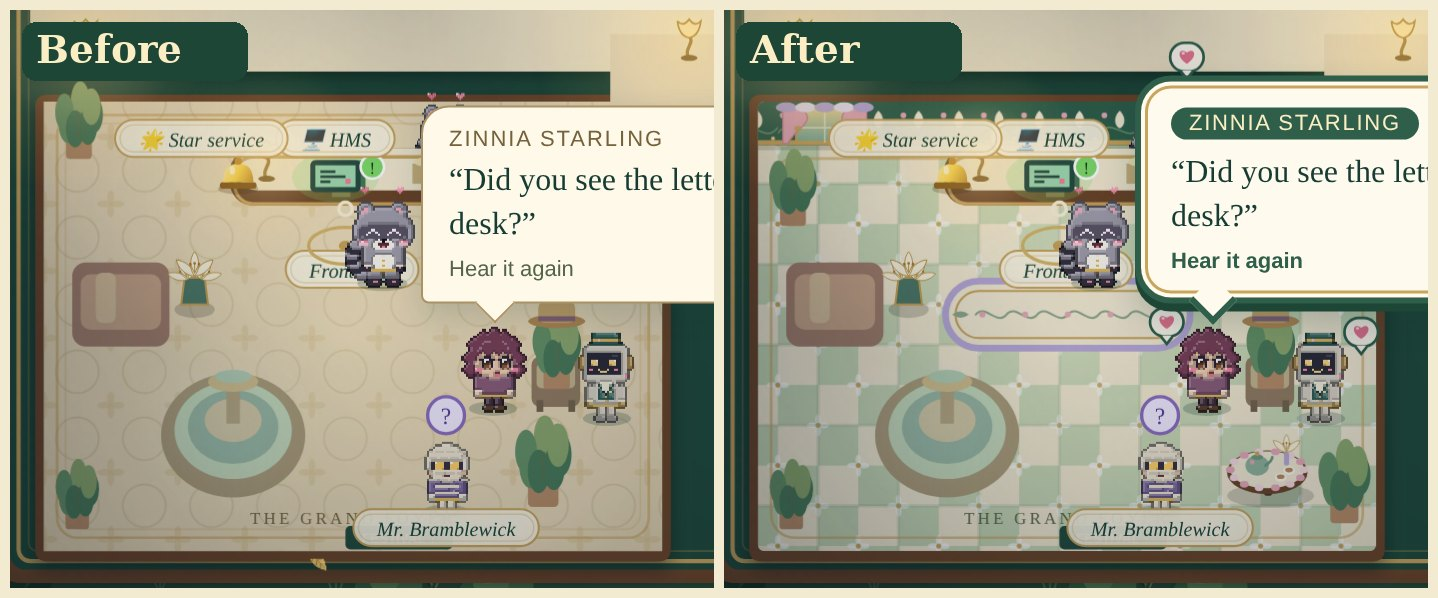
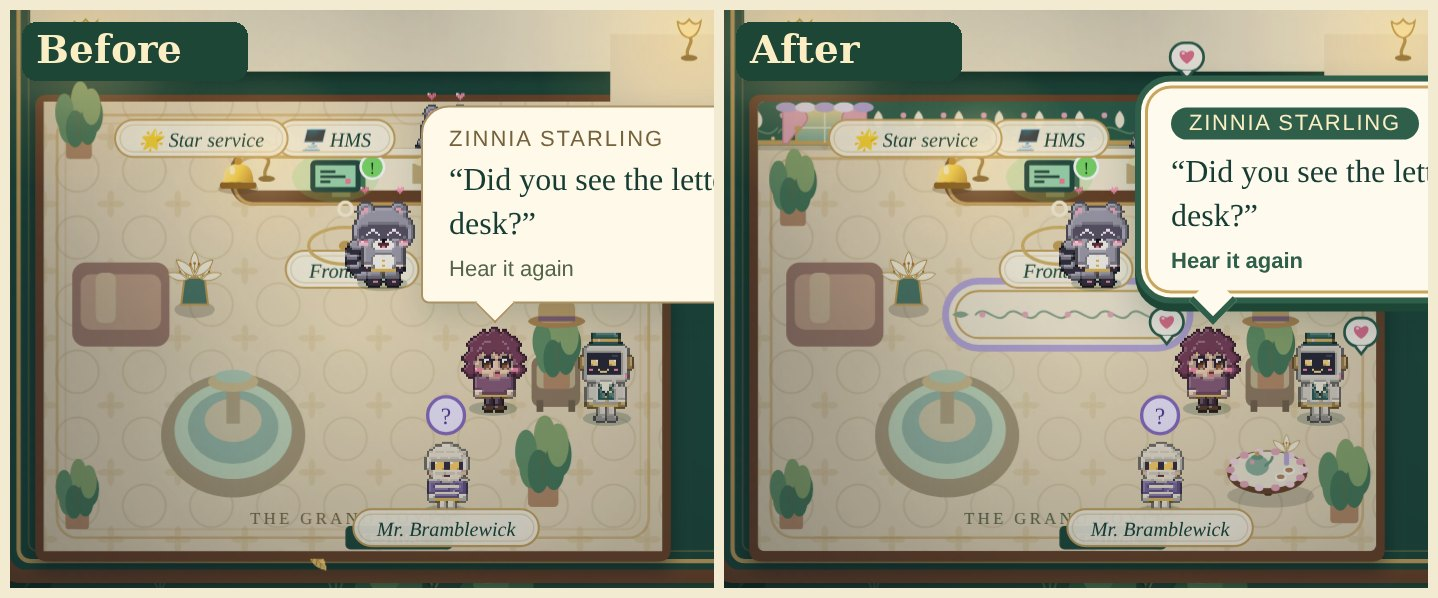
Cozy foyer: keep the original beige floor
The person preferred the beige floor to the checker. Wallpaper band, rug,
tea corner, hearts and chunky dialogue box stay. A minimal character build
was tried and dropped at the person's request.

Claude-Session: https://claude.ai/code/session_01MmNrVRPqKuEYErz5vUcpBR

diff --git a/index.html b/index.html
@@ -1676,16 +1676,11 @@ function roomFloor(c,r,color,label) {
   if(LABELS){c.letterSpacing='2px';text(c,label,r.x+r.w/2,r.y+r.h-16,10,'#7a6a43','Georgia');c.letterSpacing='0px';}
 }
 /* COZY FOYER v1 (test room): the Grand Foyer only. Still Art Nouveau and still manor green; pinks and lavenders are small accents.
-   Borrowed construction ideas: a repeating patterned floor, a patterned wallpaper band with bowed curtains, soft rounded shapes,
+   Borrowed construction ideas: the original beige floor, a patterned wallpaper band with bowed curtains, soft rounded shapes,
    a tea corner, and a little heart bubble when someone is happy. All painted once into the cached map layer except the hearts.
    Add ?cozy=0 to the address to see the old foyer for comparison. */
 const COZY_FOYER=!/[?&]cozy=0\b/.test(location.search);
 const COZY={sage:'#c4d6b3',cream:'#f3ead2',green:'#2f5f4a',greenDk:'#24503e',pink:'#e7a9b8',pinkDk:'#c98597',lav:'#b9a9d8',lavLt:'#e9e2f5'};
-function cozyFloorTile(){return anTile('cozyfloor',48,(g,s)=>{const h=s/2;
-  g.fillStyle=COZY.cream;g.fillRect(0,0,s,s);g.fillStyle=COZY.sage;g.fillRect(0,0,h,h);g.fillRect(h,h,h,h);
-  /* a tiny four-petal lily-bud where the tiles meet, and a gold dot at each centre */
-  for(const [x,y] of [[0,0],[s,0],[0,s],[s,s],[h,h]]){g.fillStyle='#ffffffb0';for(let i=0;i<4;i++){g.beginPath();g.ellipse(x+Math.cos(i*Math.PI/2)*3.4,y+Math.sin(i*Math.PI/2)*3.4,3.2,1.7,i*Math.PI/2,0,Math.PI*2);g.fill();}g.fillStyle='#c9a45c';g.beginPath();g.arc(x,y,1.5,0,Math.PI*2);g.fill();}
-  g.strokeStyle='#8fa98c40';g.lineWidth=1;g.strokeRect(.5,.5,s-1,s-1);});}
 function cozyPaperTile(){return anTile('cozypaper',24,(g,s)=>{
   g.fillStyle=COZY.green;g.fillRect(0,0,s,s);
   g.strokeStyle='#9cc08c88';g.lineWidth=1;g.beginPath();g.moveTo(0,s*.75);g.bezierCurveTo(s*.3,s*.3,s*.7,s*1.05,s,s*.6);g.stroke();
@@ -1694,7 +1689,7 @@ function cozyPaperTile(){return anTile('cozypaper',24,(g,s)=>{
 function cozyFloor(c,r,label){
   rect(c,r.x-5,r.y-4,r.w+10,r.h+10,AN.walnut,6);
   c.save();c.beginPath();c.roundRect(r.x,r.y,r.w,r.h,4);c.clip();
-  c.fillStyle=cozyFloorTile();c.fillRect(r.x,r.y,r.w,r.h);
+  rect(c,r.x,r.y,r.w,r.h,'#e8d8b6');c.fillStyle=floorTile();c.fillRect(r.x,r.y,r.w,r.h); /* the person kept the original beige floor */
   const cx=r.x+r.w/2,cy=r.y+r.h*.45,warm=c.createRadialGradient(cx,cy,10,cx,cy,Math.max(r.w,r.h)*.75);warm.addColorStop(0,'rgba(255,244,214,.28)');warm.addColorStop(.6,'rgba(255,240,200,0)');warm.addColorStop(1,'rgba(40,60,40,.14)');c.fillStyle=warm;c.fillRect(r.x,r.y,r.w,r.h);
   /* wallpaper band along the north wall, gold trim, and two bowed-curtain windows */
   const top=r.y,bandH=26;c.fillStyle=cozyPaperTile();c.fillRect(r.x,top,r.w,bandH);

diff --git a/tests/test_cozy.py b/tests/test_cozy.py
@@ -37,6 +37,9 @@ class Cozy(base.Growth):
         self.assertEqual(border, '3px')
         self.assertEqual(self.errors, [])
 
+    def test_cozy_07_beige_floor_kept(self):
+        self.assertIn("rect(c,r.x,r.y,r.w,r.h,'#e8d8b6');c.fillStyle=floorTile();", BLOCK)
+
     def test_cozy_05_no_weather_or_network_added(self):
         self.assertNotIn('MapachezWeather', BLOCK)
         self.assertEqual(self.requests, [])

diff --git a/docs/cozy.md b/docs/cozy.md
@@ -5,7 +5,7 @@ Pinks and lavenders are small accents only. Everything is drawn in code; there a
 
 ## What changed in the foyer
 
-- **Patterned floor:** a soft sage-and-cream checker with a tiny lily bud and gold dot where the tiles meet.
+- **Floor:** the original beige floor stays (the person preferred it to the checker that was tried first).
 - **Wallpaper band** along the north wall: manor green with cream lily buds, a gold trim, and two arched windows with bowed pink curtains and a lavender scalloped top.
 - **Rounded rug** in front of the desk: lavender rim, cream centre, a green vine and pink dots.
 - **Tea corner** by the lobby chairs: a round table with a scalloped pink cloth, a sage teapot, two cups and a lily in a bud vase.
@@ -21,6 +21,6 @@ Only the hearts are drawn each frame, and only near the desk or the chatting pai
 
 Add `?cozy=0` to the address to see the old foyer. Pictures: `docs/screenshots/cozy/`.
 
-Characters were left as they are for this test: the chibi kit is shared by every scene, so making them rounder belongs in its own change if this look is kept.
+Characters stay as they are. A minimal, rounder build was tried and the person preferred the original chibis.
 
 Tests: `python tests/test_cozy.py`.
